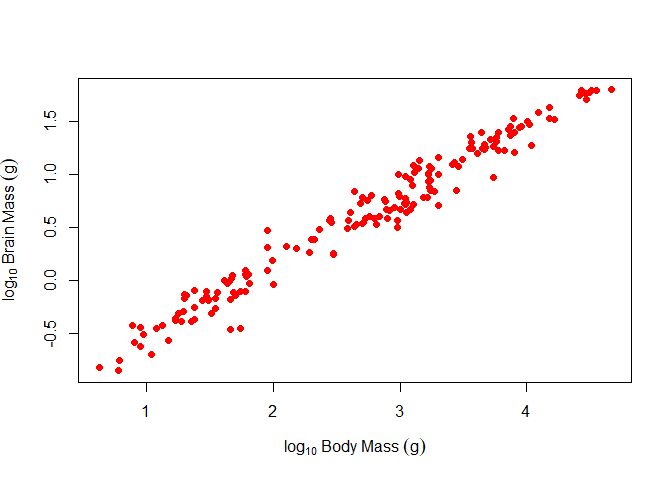
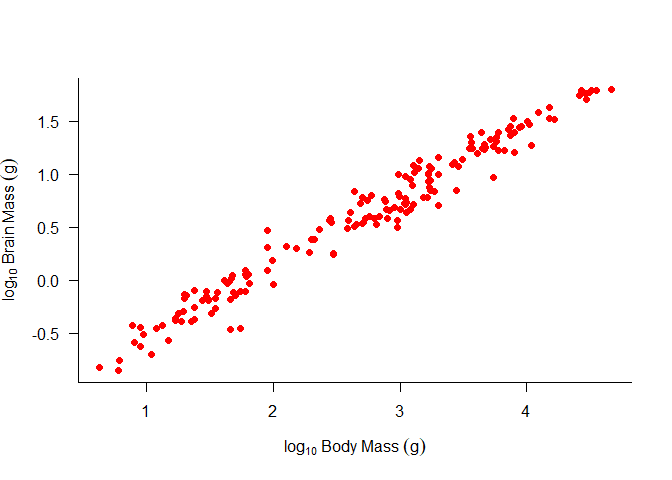
Update readme.

diff --git a/README.md b/README.md
@@ -39,4 +39,13 @@ taken from the forthcoming publication:
 Venditti C, Baker J & Barton, R (2023) *Co-evolutionary dynamics of
 mammalian brain and body size*, Currently **in review**.
 
-<img src="man/figures/README-unnamed-chunk-2-1.png" width="100%" />
+<div class="figure">
+
+<img src="man/figures/README-unnamed-chunk-2-1.png" alt="Figure 1. Marsupial Brain and Body Size. There is a clear (and unsurprising) strong positive relationship between brain and body mass in marsupials." width="100%" />
+<p class="caption">
+Figure 1. Marsupial Brain and Body Size. There is a clear (and
+unsurprising) strong positive relationship between brain and body mass
+in marsupials.
+</p>
+
+</div>
